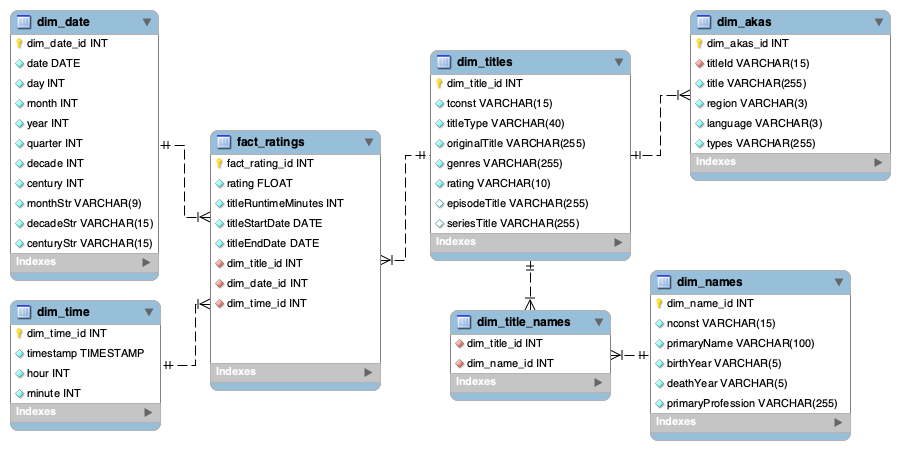
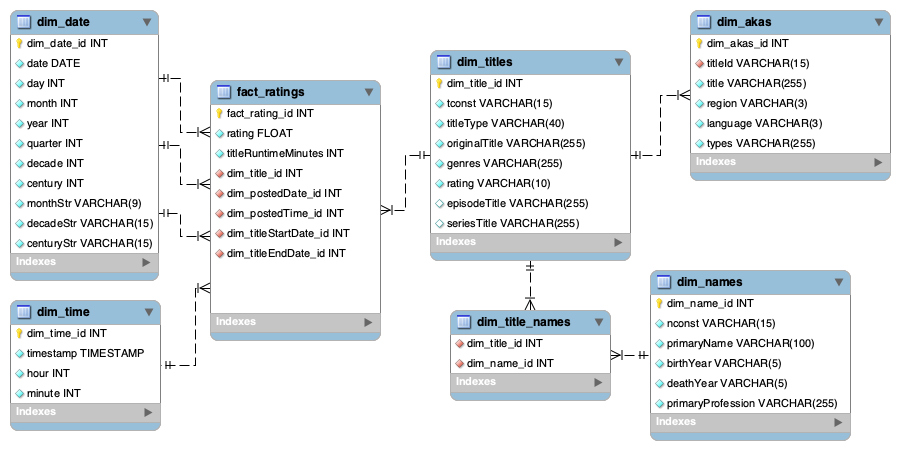
oprava `dim_title_names` a časových dimenzií, `chmod +x` na skripty

diff --git a/py/titles.py b/py/titles.py
@@ -1,3 +1,4 @@
+#!/usr/bin/env python3
 from random import randint
 from pathlib import Path
 from datetime import datetime

diff --git a/py/ratings.py b/py/ratings.py
@@ -1,3 +1,4 @@
+#!/usr/bin/env python3
 from random import randint
 from titles import ROOT, nahodny_timestamp
 

diff --git a/README.md b/README.md
@@ -43,7 +43,7 @@ Avšak, napriek tomu mal tento dataset niekoľko nevýhod, ktoré mi bránili v 
 #### Súbory a ich význam
 
 - `title.akas.tsv.gz` (50 miliónov záznamov, 438 MB): obsahuje záznamy o alternatívnych, medzinárodných a lokálnych názvoch titulov, keďže názvy filmov sú obvykle prekladané do viacerých jazykov;
-- `title.basics.tsv.gz` (9 miliónov záznamov, 300 MB): obsahuje základné informácie o každom titule v datasete (titul môže predstavovať napr.: jeden film alebo seriál);
+- `title.basics.tsv.gz` (11 miliónov záznamov, 300 MB): obsahuje základné informácie o každom titule v datasete (titul môže predstavovať napr.: jeden film alebo seriál);
 - `title.crew.tsv.gz` (10 miliónov záznamov, 73 MB): informácie o filmových a televíznych tvorcoch, konkrétne o režiséroch (`directors`) a scenáristoch (`writers`);
 - `title.episode.tsv.gz` (8 miliónov záznamov, 47 MB): týka sa epizód seriálov; prepája epizódy (tituly) so seriálom, ktorého sú súčasťou (t. j. s nadradeným titulom);
 - `title.principals.tsv.gz` (90 miliónov záznamov, 693 MB): informácie o hlavných osobách spojených s titulom (herci, režiséri, kameramani, atď.), pričom uvádza ich roly alebo postavy, ktoré hrali;
@@ -103,7 +103,7 @@ CREATE OR REPLACE FILE FORMAT TSV_FORMAT
     ERROR_ON_COLUMN_COUNT_MISMATCH = TRUE;
 ```
 
-Dáta sa v surovej podobe musia nahrať do staging arény vyhradenej pre dátový sklad môjho projektu (pomocou skriptu [`extract/nahrat.sh`](./extract/nahrat.sh)). Úspešnosť tohto kroku môžem následne overiť týmto SQL dotazom (alebo budem jednoducho sledovať výstup v termináli):
+Dáta sa v surovej podobe musia nahrať do staging arény vyhradenej pre dátový sklad môjho projektu (pomocou skriptu [`extract/nahrat.sh`](./extract/nahrat.sh)). Úspešnosť tohto kroku môžem následne overiť týmto SQL dotazom (alebo budem jednoducho sledovať výstup v termináli, ktorý bude generovať príkaz `PUT` potom, ako sa súbor nahrá na AWS server Snowflake):
 
 ```sql
 -- extract/nahrat.sh
@@ -151,21 +151,25 @@ imdb_stage/title.basics.tsv.gz  PARTIALLY_LOADED 11286007    11285932    1128600
 */
 ```
 
-Z výstupu vyššie môžem vidieť, že sa úspešne načítalo 11 286 007 záznamov, ale vyskytlo sa aj 75 chýb pri konverzii údajov na formu ktorá zodpovedá schéme mojej Snowflake staging tabuľky.
+Z výstupu vyššie môžem vidieť, že sa úspešne načítalo približne 11 miliónov záznamov, ale vyskytlo sa aj 75 chýb pri konverzii údajov na formu ktorá zodpovedá schéme mojej Snowflake staging tabuľky.
 
-Vyriešil som to príkazom `ON_ERROR = 'CONTINUE'`, čím zabezpečím to, že Snowflake bude v importovaní pokračovať aj vtedy, ak narazí na chybu. Napríklad, vyššie uvedený výstup hovorí, že Snowflake preskočil 75 záznamov. Je to z toho dôvodu, že tento riadok obsahoval pole, ktorého dĺžka presahovala veľkosť 255 (čo zodpovedá definícií pre `VARCHAR(255)` v mojej tabuľke).
-Pomer takto "chybných" záznamov voči celkovému počtu je zanedbateľný a neskreslí moju analýzu žiadnym výrazným spôsobom. Taktiež sa chcem vyhnúť zbytočnému používaniu stĺpcov s typom `TEXT` - z toho dôvodou tieto hodnoty nebudem opravovať, iba ich import jednoducho preskočím.
+Vyriešil som to príkazom `ON_ERROR = 'CONTINUE'`, čím zabezpečím to, že Snowflake bude v importovaní pokračovať aj vtedy, ak narazí na chybu. Napríklad, vyššie uvedený výstup hovorí, že prvý riadok kde sa vyskytla chyba obsahoval pole, ktorého dĺžka presahovala veľkosť 255 (čo v mojej tabuľke predstavuje stĺpec s `VARCHAR(255)`).
+Pomer takto "chybných" záznamov voči celkovému počtu je zanedbateľný a neskreslí moju analýzu žiadnym výrazným spôsobom - z tohto dôvodu tieto hodnoty nebudem opravovať, iba ich import jednoducho preskočím.
 
-Keďže predvolená možnosť pre parameter `COMPRESSION` v mojom `TSV_FORMAT` formáte je `'AUTO'`, Snowflake automaticky rozpozná že sa jedná o gzip súbory ktoré musí pred skopírovaním do tabulky dekomprimovať. Teda, nemusím nahrávať vopred dekomprimované dáta ktoré by zaberali oveľa viacej úložného priestoru.
+Keďže predvolená možnosť pre parameter `COMPRESSION` v mojom `TSV_FORMAT` formáte je `'AUTO'`, Snowflake automaticky rozpozná že sa jedná o gzip súbory ktoré musí pred skopírovaním do tabulky dekomprimovať. Teda, nemusím nahrávať vopred dekomprimované dáta ktoré by zaberali oveľa viacej úložného priestoru a nahrávali by sa dlhšie.
 
 ## Hviezdicová schéma
 
-Dáta som transformoval na hviezdicovú schému, ktorá je znázornená nižšie:
+Pôvodný dátový model v podobe surových TSV dát som transformoval na hviezdicovú schému, ktorá je znázornená nižšie:
 
 <div align="center">
 <img alt="ERD diagram hviezdicovej schémy" src="star_schema.png" width="100%"/>
 <p><b>Obrázok 2:</b> ERD diagram hviezdicovej schémy</p>
 </div>
+
+- `fact_ratings` - jedná sa o moju tabuľku faktov, obsahuje informácie o hodnoteniach jednotlivých titulov, teda hlavnú tabuľku ktorú budem skúmať;
+- `dim_date`, `dim_time` - tabuľka dimenzií, ktorá obsahuje informácie o dátume a čase, kedy sa hodnotenie používateľa zaznamenalo;
+
 
 ## Odkazy
 
